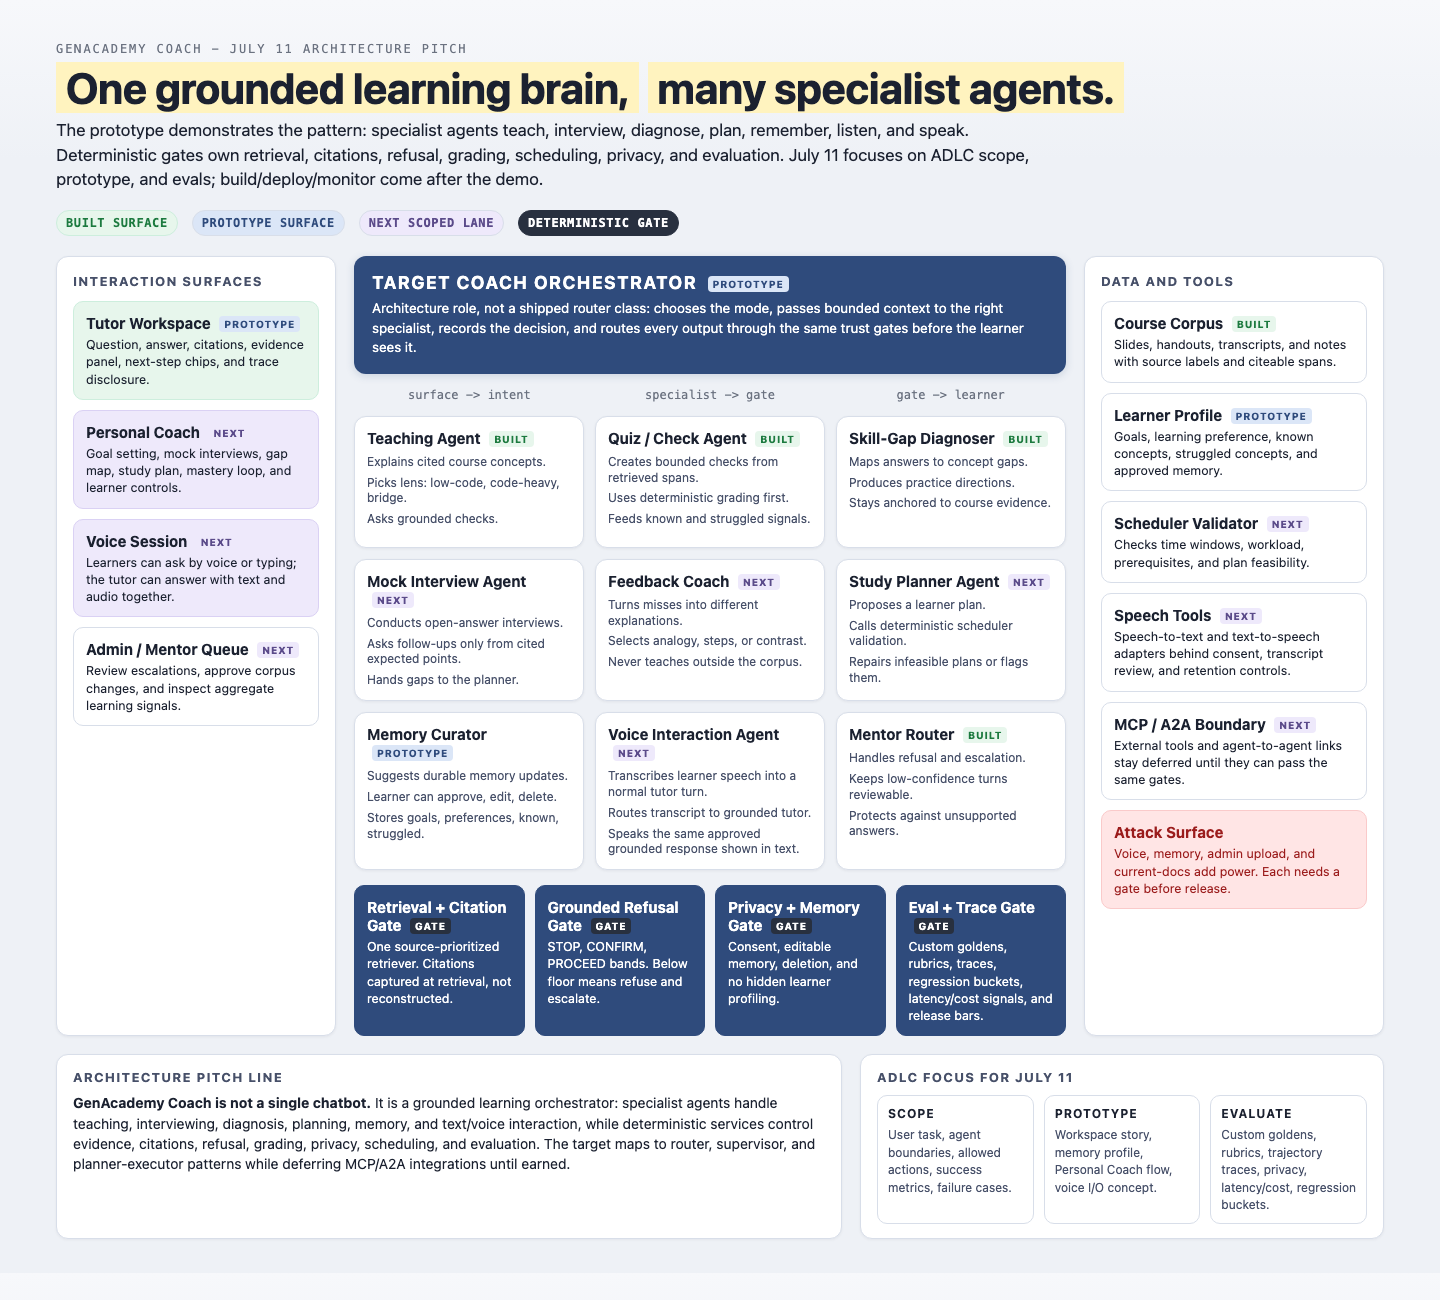
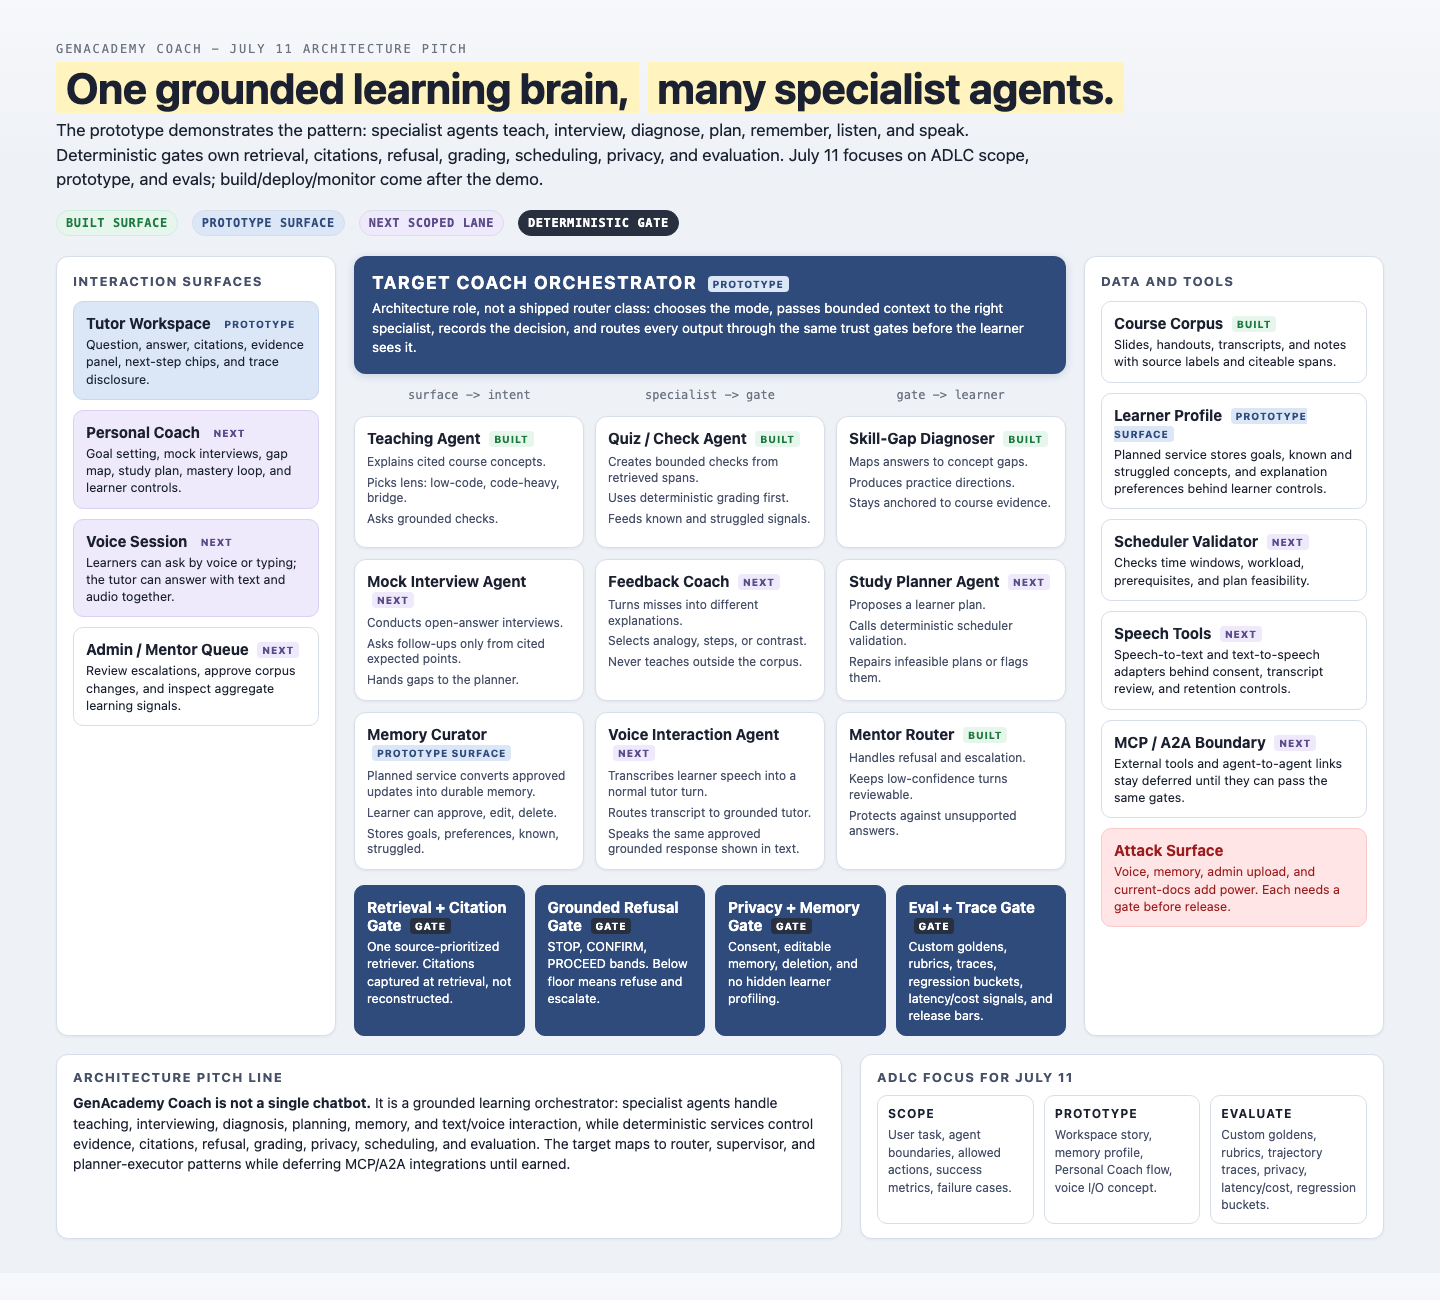
docs: polish pitch artifact status labels

Changed region(s): [[0.75, 0.3077, 0.9688, 0.7385], [0.25, 0.5538, 0.4062, 0.6769]]

diff --git a/docs/assets/pitch/personal-coach-prototype-storyboard.html b/docs/assets/pitch/personal-coach-prototype-storyboard.html
@@ -198,9 +198,9 @@
       <span class="tag">Personal Coach target</span>
     </div>
     <div class="filters">
-      <span class="chip">All sources v</span>
-      <span class="chip">Course + demo sources v</span>
-      <span class="chip">Lens: bridge v</span>
+      <span class="chip">All sources ▾</span>
+      <span class="chip">Course + demo sources ▾</span>
+      <span class="chip">Lens: bridge ▾</span>
     </div>
   </div>
 
@@ -217,7 +217,7 @@
   </nav>
   <nav class="plannedbar" aria-label="Planned capability storyboard scenes">
     <span class="planned-label">Planned capabilities</span>
-    <button class="mode planned" data-screen="memory">Memory · service</button>
+    <button class="mode planned" data-screen="memory">Memory · prototype surface</button>
     <button class="mode planned" data-screen="interview">Mock Interview · agent lane</button>
     <button class="mode planned" data-screen="plan">Study Planner · workflow</button>
     <button class="mode planned" data-screen="voice">Voice · adapter</button>
@@ -327,7 +327,7 @@
             <h3>4. Planned memory remembers only with consent</h3>
             <p>Memory is visible and editable. The coach may suggest an update, but the learner controls what is saved.</p>
           </div>
-          <span class="state next">Planned service</span>
+          <span class="state next">Prototype surface · planned service</span>
         </div>
         <div class="grid2">
           <div class="box green">
@@ -481,7 +481,7 @@
           <p>Learner question -> teaching move -> source-prioritized retrieval -> citation/refusal gate -> answer + evidence panel.</p>
         </div>
         <div class="lane">
-          <div class="lane-head">Slides · 1 <span class="arw">v</span></div>
+          <div class="lane-head">Slides · 1 <span class="arw">▾</span></div>
           <div class="lane-body">
             <div class="srccard">
               <div class="srcrow"><span class="srclabel">Course slide · Week 1 · Session 2 · Slide 22</span><span class="cid">S1</span></div>
@@ -495,7 +495,7 @@
           </div>
         </div>
         <div class="lane">
-          <div class="lane-head">Transcript explanation · 1 <span class="arw">v</span></div>
+          <div class="lane-head">Transcript explanation · 1 <span class="arw">▾</span></div>
           <div class="lane-body">
             <div class="srccard">
               <div class="srcrow"><span class="srclabel">Synthetic demo transcript · 00:02:10</span><span class="cid">T1</span></div>
@@ -505,7 +505,7 @@
           </div>
         </div>
         <div class="lane">
-          <div class="lane-head">Handout · 1 <span class="arw">v</span></div>
+          <div class="lane-head">Handout · 1 <span class="arw">▾</span></div>
           <div class="lane-body">
             <div class="srccard">
               <div class="srcrow"><span class="srclabel">Synthetic demo handout · Decision rule</span><span class="cid">H1</span></div>
@@ -524,7 +524,7 @@
           <p>Cited answer IDs -> evidence projection -> citation parity eval. The panel renders only objects attached during retrieval.</p>
         </div>
         <div class="lane">
-          <div class="lane-head">Answer citation map <span class="arw">v</span></div>
+          <div class="lane-head">Answer citation map <span class="arw">▾</span></div>
           <div class="lane-body">
             <div class="srccard">
               <div class="srcrow"><span class="srclabel">Hybrid answer support</span><span class="cid">MAP</span></div>
@@ -533,7 +533,7 @@
           </div>
         </div>
         <div class="lane">
-          <div class="lane-head">Slides · 1 <span class="arw">v</span></div>
+          <div class="lane-head">Slides · 1 <span class="arw">▾</span></div>
           <div class="lane-body">
             <div class="srccard">
               <div class="srcrow"><span class="srclabel">Course slide · Week 1 · Session 2 · Slide 22</span><span class="cid">S1</span></div>
@@ -547,7 +547,7 @@
           </div>
         </div>
         <div class="lane">
-          <div class="lane-head">Transcript explanation · 1 <span class="arw">v</span></div>
+          <div class="lane-head">Transcript explanation · 1 <span class="arw">▾</span></div>
           <div class="lane-body">
             <div class="srccard">
               <div class="srcrow"><span class="srclabel">Synthetic demo transcript · 00:02:10</span><span class="cid">T1</span></div>
@@ -557,7 +557,7 @@
           </div>
         </div>
         <div class="lane">
-          <div class="lane-head">Handout · 1 <span class="arw">v</span></div>
+          <div class="lane-head">Handout · 1 <span class="arw">▾</span></div>
           <div class="lane-body">
             <div class="srccard">
               <div class="srcrow"><span class="srclabel">Synthetic demo handout · Decision rule</span><span class="cid">H1</span></div>
@@ -567,7 +567,7 @@
           </div>
         </div>
         <div class="lane">
-          <div class="lane-head">Evaluation hook <span class="arw">v</span></div>
+          <div class="lane-head">Evaluation hook <span class="arw">▾</span></div>
           <div class="lane-body">
             <div class="span">Evals can assert citation parity: cited answer IDs must equal rendered panel IDs, and unsupported claims should trigger refusal instead of a source card.</div>
           </div>
@@ -582,13 +582,13 @@
           <p>Cited concept -> generated check -> deterministic grade -> runtime next action: advance, drill, re-explain, or stop.</p>
         </div>
         <div class="lane">
-          <div class="lane-head">Quiz / Check mode <span class="arw">v</span></div>
+          <div class="lane-head">Quiz / Check mode <span class="arw">▾</span></div>
           <div class="lane-body">
             <div class="span">The check is generated from retrieved evidence. Python owns the grade and the evidence/refusal floor.</div>
           </div>
         </div>
         <div class="lane">
-          <div class="lane-head">Evaluation checkpoint <span class="arw">v</span></div>
+          <div class="lane-head">Evaluation checkpoint <span class="arw">▾</span></div>
           <div class="lane-body">
             <div class="span">Score the chosen next action, cited support, deterministic grade, tool match, latency, and refusal behavior.</div>
           </div>
@@ -596,19 +596,19 @@
       </article>
 
       <article class="context" id="context-memory">
-        <span class="posture wait"><span class="dot"></span>Planned service · consent required</span>
+        <span class="posture wait"><span class="dot"></span>Prototype surface · planned service · consent required</span>
         <div class="route-card">
           <b>Planned control plane route</b>
           <p>Consented profile signal -> Memory service -> approve/edit/delete gate -> bounded profile update or discard.</p>
         </div>
         <div class="lane">
-          <div class="lane-head">Memory gate <span class="arw">v</span></div>
+          <div class="lane-head">Memory gate <span class="arw">▾</span></div>
           <div class="lane-body">
             <div class="span">Approve, edit, discard, and delete are learner-facing controls. The agent may suggest memory; it cannot silently persist it.</div>
           </div>
         </div>
         <div class="lane">
-          <div class="lane-head">Profile fields <span class="arw">v</span></div>
+          <div class="lane-head">Profile fields <span class="arw">▾</span></div>
           <div class="lane-body">
             <div class="span">Goals · known concepts · struggled concepts · explanation preference · consent timestamp · source of update.</div>
           </div>
@@ -622,13 +622,13 @@
           <p>Practice request -> bounded context handoff -> Mock Interview agent lane -> deterministic rubric service -> cited feedback + trace.</p>
         </div>
         <div class="lane">
-          <div class="lane-head">Agent boundary <span class="arw">v</span></div>
+          <div class="lane-head">Agent boundary <span class="arw">▾</span></div>
           <div class="lane-body">
             <div class="span">The agent chooses adaptive interview questions. Rubric scoring, evidence checks, privacy, refusal, and release gates remain independently testable.</div>
           </div>
         </div>
         <div class="lane">
-          <div class="lane-head">Release gate <span class="arw">v</span></div>
+          <div class="lane-head">Release gate <span class="arw">▾</span></div>
           <div class="lane-body">
             <div class="span">Mock interview waits until open-answer grading has enough grounded evaluation coverage.</div>
           </div>
@@ -642,13 +642,13 @@
           <p>Goal + gaps + available time -> Study Planner workflow -> scheduler validator -> feasible study plan.</p>
         </div>
         <div class="lane">
-          <div class="lane-head">Scheduler validator <span class="arw">v</span></div>
+          <div class="lane-head">Scheduler validator <span class="arw">▾</span></div>
           <div class="lane-body">
             <div class="span">Checks time windows, daily load, prerequisites, and feasibility. The LLM proposes; deterministic code validates and repairs.</div>
           </div>
         </div>
         <div class="lane">
-          <div class="lane-head">Eval signal <span class="arw">v</span></div>
+          <div class="lane-head">Eval signal <span class="arw">▾</span></div>
           <div class="lane-body">
             <div class="span">Plan evals check whether items are grounded, feasible, ordered, and useful for the learner's stated goal.</div>
           </div>
@@ -662,13 +662,13 @@
           <p>Speech input -> transcript review -> same Coach agent loop -> approved text answer -> text-to-speech playback.</p>
         </div>
         <div class="lane">
-          <div class="lane-head">Voice boundary <span class="arw">v</span></div>
+          <div class="lane-head">Voice boundary <span class="arw">▾</span></div>
           <div class="lane-body">
             <div class="span">Voice is first-class I/O, not a separate reasoning path. Speech becomes a transcript, then follows the same retrieval, citation, refusal, privacy, and trace gates.</div>
           </div>
         </div>
         <div class="lane">
-          <div class="lane-head">Added risk <span class="arw">v</span></div>
+          <div class="lane-head">Added risk <span class="arw">▾</span></div>
           <div class="lane-body">
             <div class="span">Voice can capture sensitive context accidentally, so release needs consent, visible recording state, transcript review, and retention limits.</div>
           </div>

diff --git a/docs/assets/pitch/target-agentic-architecture.html b/docs/assets/pitch/target-agentic-architecture.html
@@ -78,6 +78,7 @@
   .statusbox{border:1px solid var(--border); border-radius:10px; padding:10px; background:#fff;}
   .statusbox h3{font-size:12px; text-transform:uppercase; letter-spacing:.08em; margin-bottom:5px;}
   .statusbox p{font-size:12px; color:var(--muted);}
+  .node.prototype{background:var(--blue2); border-color:#c9d7ee;}
 </style>
 </head>
 <body>
@@ -98,7 +99,7 @@
   <section class="architecture">
     <aside class="lane">
       <h2>Interaction Surfaces</h2>
-      <div class="node green">
+      <div class="node prototype">
         <h3>Tutor Workspace <span class="tag protoTag">prototype</span></h3>
         <p>Question, answer, citations, evidence panel, next-step chips, and trace disclosure.</p>
       </div>
@@ -173,9 +174,9 @@
           </ul>
         </div>
         <div class="agent">
-          <h3>Memory Curator <span class="tag protoTag">prototype</span></h3>
+          <h3>Memory Curator <span class="tag protoTag">prototype surface</span></h3>
           <ul>
-            <li>Suggests durable memory updates.</li>
+            <li>Planned service converts approved updates into durable memory.</li>
             <li>Learner can approve, edit, delete.</li>
             <li>Stores goals, preferences, known, struggled.</li>
           </ul>
@@ -224,8 +225,8 @@
         <p>Slides, handouts, transcripts, and notes with source labels and citeable spans.</p>
       </div>
       <div class="node">
-        <h3>Learner Profile <span class="tag protoTag">prototype</span></h3>
-        <p>Goals, learning preference, known concepts, struggled concepts, and approved memory.</p>
+        <h3>Learner Profile <span class="tag protoTag">prototype surface</span></h3>
+        <p>Planned service stores goals, known and struggled concepts, and explanation preferences behind learner controls.</p>
       </div>
       <div class="node">
         <h3>Scheduler Validator <span class="tag nextTag">next</span></h3>

diff --git a/docs/assets/mockups/tutor-workspace-refusal.html b/docs/assets/mockups/tutor-workspace-refusal.html
@@ -80,7 +80,7 @@
     </div>
     <div class="filters">
       <span class="chip">All sources ▾</span>
-      <span class="chip">Week 1 ▾</span>
+      <span class="chip">Course + demo sources ▾</span>
       <span class="chip">Lens: bridge ▾</span>
     </div>
   </div>
@@ -123,7 +123,7 @@
 
       <div class="lanes-empty">
         <span class="lane0">Slides · 0</span>
-        <span class="lane0">Instructor explanation · 0</span>
+        <span class="lane0">Transcript explanation · 0</span>
         <span class="lane0">Handout · 0</span>
         <span class="lane0">Cohort Q&amp;A · 0</span>
       </div>

diff --git a/docs/assets/mockups/tutor-workspace-evidence.html b/docs/assets/mockups/tutor-workspace-evidence.html
@@ -66,7 +66,7 @@
   .span{font-size:13px;line-height:1.5;color:#28303f;background:var(--code);border:1px solid #eaeef5;
     border-radius:8px;padding:9px 11px}
   .collapsed .lane-body{display:none}
-  /* slide-visual card using a repository-owned synthetic illustration */
+  /* slide-visual card embedding the single reviewed course slide (narrow public-demo exception) */
   .slidefig{margin:9px 0 2px}
   .slideimg{width:100%;display:block;border:1px solid #d8dee9;border-radius:8px;
     box-shadow:0 1px 3px rgba(16,24,40,.10)}

diff --git a/docs/assets/pitch/agent-orchestration-flow.md b/docs/assets/pitch/agent-orchestration-flow.md
@@ -6,7 +6,7 @@ orchestration role → specialist agents → deterministic trust gates → learn
 
 **Status labels for the pitch:** the grounded teach loop, refusal, citations, and eval traces are the
 evaluated pattern; quiz/check and skill-gap are shipped support surfaces. The Personal Coach,
-memory-profile UI, mock interview, study planner, and voice I/O are target lanes to build
+memory-profile prototype surface with a planned service, mock interview, study planner, and voice I/O are target lanes to build
 incrementally behind the same gates.
 
 **July 11 ADLC cut:** this pitch is intentionally about **Scope**, **Prototype**, and **Evaluate**.
@@ -18,9 +18,9 @@ Build, Deploy, and Monitor remain the post-demo lifecycle once each lane earns i
 flowchart LR
     Learner["Learner"]
     UI["Tutor Workspace / Personal Coach UI"]
-    Voice["Voice Interaction Agent\nspeech input + spoken tutor response"]
+    Voice["Voice Interaction Agent<br/>speech input + spoken tutor response"]
     VoiceConsent["Consent + Transcript Review Gate"]
-    Orchestrator["Target Coach Orchestrator\nprototype routing role"]
+    Orchestrator["Target Coach Orchestrator<br/>prototype routing role"]
     Response["Grounded Tutor Response"]
 
     Learner --> UI --> Orchestrator
@@ -67,10 +67,10 @@ only the grounded response that already passed retrieval, citation, refusal, pri
 flowchart LR
     Learner["Learner"]
     TextUI["Text UI"]
-    Voice["Voice Interaction Agent\nSTT + TTS"]
+    Voice["Voice Interaction Agent<br/>STT + TTS"]
     Consent["Consent + Visible Recording State"]
     Transcript["Reviewed Transcript"]
-    Orchestrator["Target Coach Orchestrator\nprototype routing role"]
+    Orchestrator["Target Coach Orchestrator<br/>prototype routing role"]
     Trust["Grounding + Citation Gate"]
     Privacy["Privacy + Memory Gate"]
     Response["Approved Tutor Response"]

diff --git a/docs/coach-product-requirements.md b/docs/coach-product-requirements.md
@@ -80,8 +80,9 @@ the local Gradio app are shipped. Role-keyed provenance (`role → span_id`) exi
   keyed citation → deck + slide index. Slide images live in a private, gitignored store and are served
   at runtime only; they are never committed — the repo is public. *Narrow public-demo exception,
   owner-approved and reaffirmed 2026-07-18: one inspected course slide (Week 1 · Session 2 · slide 22)
-  may remain committed as the sole course visual in the evidence mockup and pitch storyboard. Their
-  transcript and handout evidence remains synthetic; the exception does not cover other course assets.*
+  may remain committed as the sole course visual in the evidence mockup and pitch storyboard. The
+  mockup and storyboard's transcript and handout evidence remains synthetic; the exception does not
+  cover other course assets.*
 - **FR-W10** Next-step suggestion chips: after each tutor turn, 2–4 clickable suggestions (continue /
   comprehension / practice slots; a recovery set on refusal). **Every chip carries a grounding anchor**
   (span id, deck/section adjacency, or bounded teaching action) validated at creation — no anchor, no
